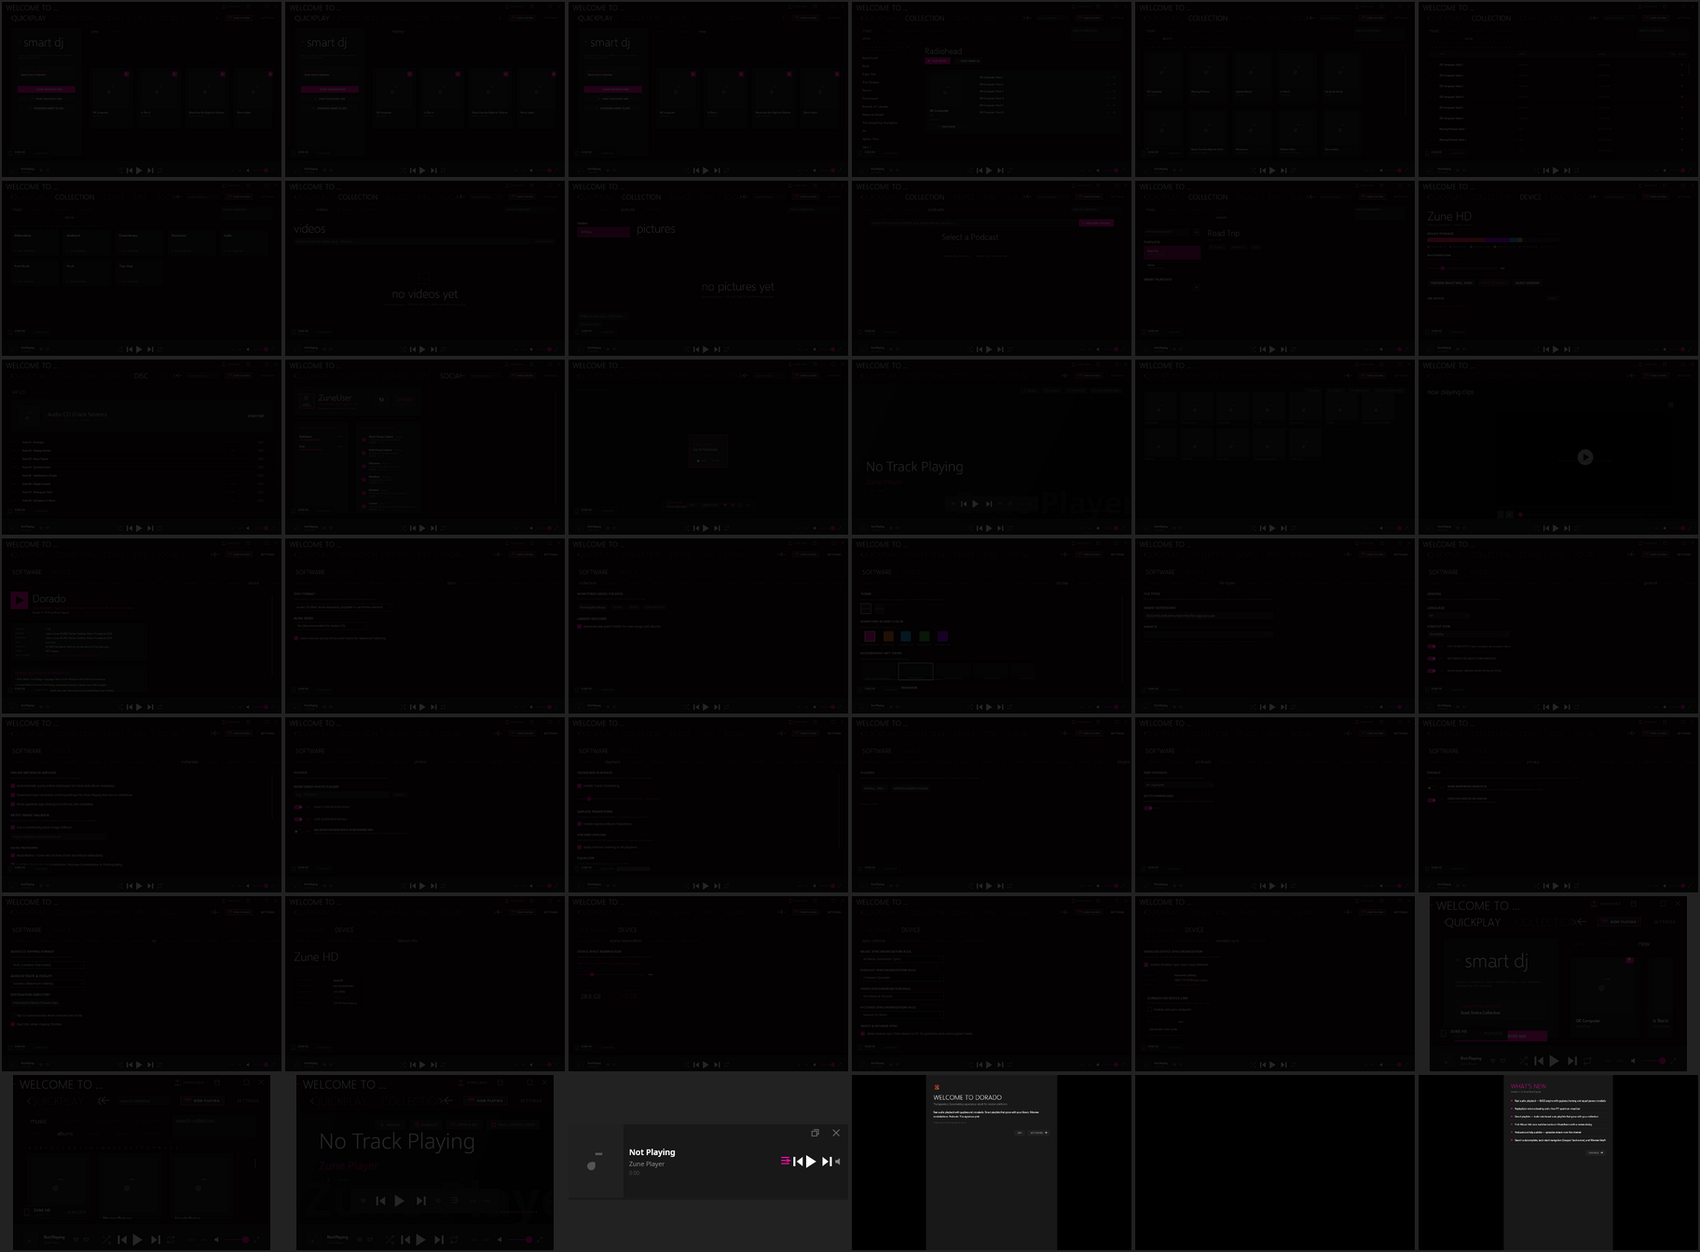
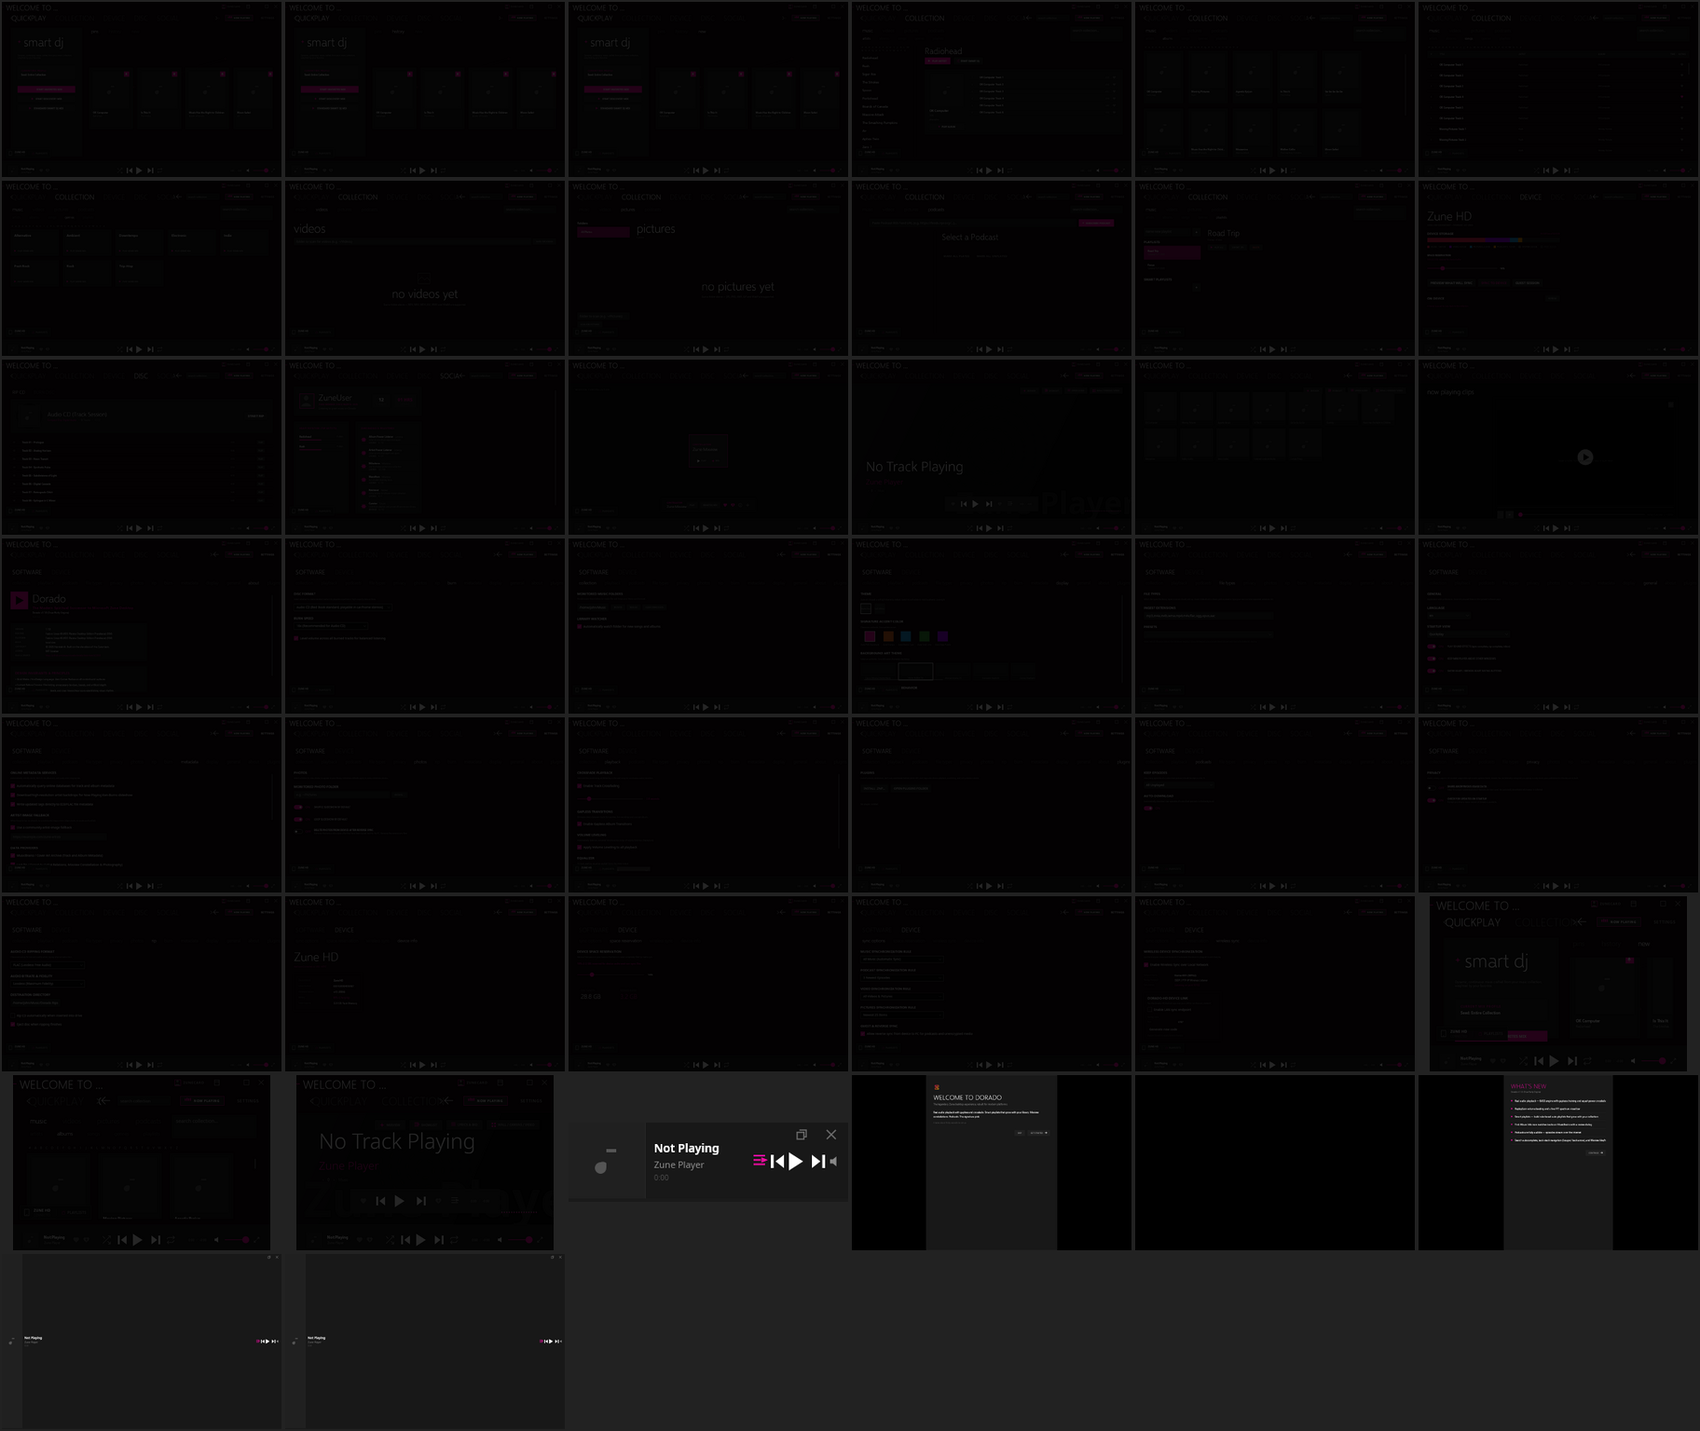
docs(audit): Phase D/E — feature-completion re-audit and severity findings
Top-15 gaps: 7 closed / 4 partial / 4 open (doc claimed 10 closed).
High: CD rip+burn fake success; fabricated Device Info; DISC always visible.
Medium: mosaic placeholder glyphs, no NP crossfade, dead hover variants,
Smart DJ no timeout, playlist search absent, doc drift.
Verified strengths: real BASS, real DSP, FTS5, EQ, plugins, badges, wizards.
Corrected weighted parity ~80-84% (claimed ~88%). Report-only.

diff --git a/docs/parity/audit-2026-09-11.md b/docs/parity/audit-2026-09-11.md
@@ -4,17 +4,34 @@
 **Auditor:** automated audit (build goal, independent re-verification)
 **Target:** `dorado` @ `9834793` (Zune 4.8 desktop re-creation, .NET 8 / Avalonia)
 **Posture:** report-only. No product code was modified. The render harness lives
-outside the repository; Microsoft corpus remained external and untracked.
+outside the repository; the Microsoft corpus remained external and untracked.
 
-References used: the external `zune-disassembly/` corpus (821 `zuneshell` C# +
-81 `*Page.cs`, 1,671 RCDATA resources incl. 1,333 authentic 4.8 UI sprites,
-241 compiled `.UIX`, `SEGOEZ-LIGHT.TTC`), the external `Zune Archive/`
-(10 real Zune 3.x client screen captures + installers + docs), the project's own
-`docs/parity/*` audit set, and ZuneDev OSINT
-(`MicrosoftIris`, `Xune`, `ZuneShell.dll`, `ZuneUIXTools`, `Wiki`).
+**References:** external `zune-disassembly/` (821 `zuneshell` C# + 81
+`*Page.cs`, 1,671 RCDATA resources incl. 1,333 authentic 4.8 UI sprites, 241
+compiled `.UIX`, `SEGOEZ-LIGHT.TTC`), external `Zune Archive/` (10 real Zune 3.x
+client screen captures, installers, docs), the project's `docs/parity/*` set, and
+ZuneDev OSINT (`MicrosoftIris`, `Xune`, `ZuneShell.dll`, `ZuneUIXTools`, `Wiki`).
 
-Screenshot gallery: [`audit-2026-09-11-gallery/`](audit-2026-09-11-gallery/)
+**Screenshot gallery:** [`audit-2026-09-11-gallery/`](audit-2026-09-11-gallery/)
 (44 PNGs + [contact sheet](audit-2026-09-11-gallery/contact-sheet.png)).
+
+---
+
+## Executive summary
+
+| Dimension | Verdict |
+|---|---|
+| Build / tests / design audit | **Fully confirmed** — 0 warnings, 393/393 tests, 0 design violations |
+| Functional runtime | **Confirmed** — launches under X; real scan; **real BASS playback**; theme swap |
+| Visual parity | **Strong** — authentic tokens/typography/geometry; 44 clean renders; known content gaps |
+| Feature completion | **Overstated** — 7 of the 15 "Top Gaps" truly closed, not 10; ~80–84% weighted vs claimed ~88% |
+| Product-code changes | **None** (report-only, as scoped) |
+
+**Highest-impact issues:** CD rip/burn announce success while writing nothing;
+Device Info shows fabricated firmware/battery/capacity even with a device
+attached; the DISC pivot is permanently visible because a fake 8-track disc is
+hard-coded; the Now-Playing "mosaic wall" renders placeholder glyphs, not album
+covers.
 
 ---
 
@@ -22,11 +39,9 @@ Screenshot gallery: [`audit-2026-09-11-gallery/`](audit-2026-09-11-gallery/)
 
 | Check | Claimed | Verified | Result |
 |---|---|---|---|
-| Release build, zero warnings | 0 warnings | `dotnet build -c Release /warnaserror` → 0 Warning(s), 0 Error(s) | ✅ |
-| Test suite | 393 (14 Domain + 379 Application) | `dotnet test -c Release` → Domain 14/14, Application 379/379, 0 failed, 0 skipped | ✅ **393** |
-| Design-invariants audit | 0 violations | `scripts/mcp_tools.py:audit_design_invariants('.')` → `status=PASSED`, 26 files, 0 violations | ✅ |
-
-Commands (from the `dorado` checkout):
+| Release build, zero warnings | 0 | `dotnet build -c Release /warnaserror` → 0/0 | ✅ |
+| Test suite | 393 | Domain 14/14, Application 379/379, 0 failed, 0 skipped | ✅ **393** |
+| Design-invariants audit | 0 violations | `scripts/mcp_tools.py` → `PASSED`, 26 files, 0 violations | ✅ |
 
 ```bash
 dotnet build Dorado.sln -c Release /warnaserror
@@ -34,79 +49,227 @@ dotnet test  Dorado.sln -c Release --no-build --nologo
 python3 -c "import sys;sys.path.insert(0,'scripts');from mcp_tools import audit_design_invariants as a;print(a('.'))"
 ```
 
-Total elapsed build ≈ 20 s; test run ≈ 6 s (Application) + 74 ms (Domain).
-
 ---
 
-## Phase B — Functional runtime ✅ (with caveats)
+## Phase B — Functional runtime ✅
 
-### B.1 Real X11 launch (Xvfb)
-`dotnet Dorado.Desktop.dll` launched under `xvfb-run` (1600×900×24), stayed alive
-for the full 45 s window, and logged **no exceptions** — only the expected
-`X connection ... broken` on teardown kill. (`DISPLAY` is empty in this
-environment; a virtual display is required.)
+**B.1 Real X11 launch (Xvfb).** `Dorado.Desktop.dll` launched under
+`xvfb-run` (1600×900×24), stayed alive the full 45 s, logged **no exceptions**
+(only the expected `X connection … broken` on teardown). `DISPLAY` is empty here;
+a virtual display is required.
 
-### B.2 Real library scan (`test-media/`)
-`MediaLibraryService.ScanDirectoryAsync` over
-`/home/john/Projects/project-dorado/test-media`:
+**B.2 Real library scan** (`test-media/`) — `MediaLibraryService.ScanDirectoryAsync`:
 
 ```
 tracks=5  albums=2  artists=2
-Epic Win Burlesque ... 01 Da Doo   | Unknown Artist | Unknown Album | 02:11
-Epic Win Burlesque ... 02 Dentist! | Unknown Artist | Unknown Album | 03:05
-Epic Win Burlesque ... 03 Suddenly | Unknown Artist | Unknown Album | 03:31
-Pumpkin         | Schaffer the Darklord | Pumpkin + Scary and Naked | 03:10
-Scary and Naked | Schaffer the Darklord | Pumpkin + Scary and Naked | 03:16
+Epic Win Burlesque … 01/02/03 | Unknown Artist | Unknown Album
+Pumpkin / Scary and Naked    | Schaffer the Darklord | Pumpkin + Scary and Naked
 ```
-- The 3 WAVs carry no tags → folder-derived titles and `Unknown Artist/Album`
-  (reasonable fallback; see Finding M-4).
-- `video.mp4` is correctly excluded from the music scan.
+WAVs carry no tags → folder-derived title + `Unknown Artist/Album` (reasonable
+fallback; finding L-4). `video.mp4` correctly excluded from the music scan.
 
-### B.3 Real audio path
+**B.3 Real audio path** (not simulated):
+
 ```
-engine.IsAvailable (pre-load)      = False   # lazy init by design
-PlayTrackAsync                     = completed, State=Playing, engine.HasActiveSource=True
-coordinator.IsSimulatedPlayback    = False   # REAL path, not the silent clock
-position after ~2 s                = 1.98 s  # advances in real time
-StopAsync                          = State=Stopped
+engine.IsAvailable (pre-load)   = False   # lazy init by design (PlaybackQueueCoordinator:400)
+PlayTrackAsync                  = completed, State=Playing, engine.HasActiveSource=True
+coordinator.IsSimulatedPlayback = False   # REAL path
+position after ~2 s             = 1.98 s  # advances in real time
+StopAsync                       = State=Stopped
 ```
-BASS decodes and plays on this host. The initial `IsAvailable=False` is a lazy
-init artifact (`PlaybackQueueCoordinator.cs:400`), not a regression.
 
-### B.4 Theme swap
-Selecting the light `ThemeOption` applied the light token set and rendered
-correctly (`37-light-quickplay`, `38-light-settings-general`). Dark restored.
+**B.4 Theme swap.** Selecting the light option applied the light token set and
+rendered correctly (`37/38-light-*`), dark restored.
 
-### B.5 Navigation
-All 8 top-level pivots, 8 Collection sub-pivots, 3 Now-Playing modes, all 13
-software + 4 device Settings pages, and both wizards rendered without a single
-capture failure (**44/44**).
+**B.5 Navigation.** All 8 top pivots, 8 Collection sub-pivots, 3 Now-Playing
+modes, 13 software + 4 device Settings pages, both wizards — **44/44 rendered**,
+0 failures.
+
+`functional-probe.log` in the gallery holds the raw probe output.
 
 ---
 
 ## Phase C — Visual capture & parity
 
-A throwaway Avalonia **headless + Skia** harness (outside the repo) loaded the
-real `ZuneTheme.axaml`, `ViewLocator`, and Selawik metrics, seeded a
-representative library, then rendered each screen at 1280×800 and the
-shell/content at the authentic **minimum 734×500** (from
-`docs/disassembly/zune_uix_analysis.md`).
+An external Avalonia **headless + Skia** harness loaded the real `ZuneTheme.axaml`,
+`ViewLocator`, and Selawik metrics, seeded a representative library, and rendered
+each screen at 1280×800 plus the shell at the authentic **minimum 734×500**
+(`docs/disassembly/zune_uix_analysis.md`). 44 PNGs, all unique, 0 failures.
 
-- 44 PNGs, all unique (no duplicate/blank frames), 0 failures.
-- Tokens observed match the decompiled ground truth: canvas `#11090F`,
-  accent `#F10DA2`, zero corner radius, Selawik light hierarchy, opacity ladder.
-- Layout is recognisably Zune 4.8: cropped-header watermark, panoramic pivot
-  strip, two-tier Collection, gas-gauge Device land, DISC, Zune Card, Mixview
-  constellation, three Now-Playing modes.
+Verified against decompiled ground truth: canvas `#11090F`, accent `#F10DA2`,
+zero corner radius, Selawik light hierarchy, opacity ladder, cropped-header
+watermark, panoramic pivot strip, two-tier Collection, gas-gauge Device land,
+DISC, Zune Card, Mixview constellation, three Now-Playing modes.
 
-Full-res gallery + contact sheet: `audit-2026-09-11-gallery/`.
+> The mini-player is captured at **340×96 — the code-enforced size**
+> (`MainWindow.axaml.cs:220-223`), which contradicts the README (see M-6).
 
 ---
 
 ## Phase D — Feature-completion re-audit
 
-_(populated in the next commit)_
+### D.1 Top-15 gap verification (against code, not the doc's status column)
+
+| # | Gap | Doc | Verdict | Evidence |
+|---|---|---|---|---|
+| 1 | Settings pivot-gating | ✅ closed | **CLOSED** | `SettingsViewModel.cs:217-239` fires all 13 flags; `SettingsPivotGatingTests.cs:15` |
+| 2 | CD view backdrop/glow | ✅ closed | **CLOSED** (rationale wrong) | clean-room gradients, not PNGs — `CDView.axaml:33-71` |
+| 3 | NP button hover/pressed frames | ✅ closed | **PARTIAL** | fields write-only; `RefreshNowPlayingIcon` only raises frame/playing (`MainShellViewModel.cs:148-176`); `NowPlayingIconTests.cs:26` asserts hover does *not* change state |
+| 4 | Iris art reveal | ⬜ open | **PARTIAL/DOC-STALE** | `IrisArtControl.cs:13` exists, used `NowPlayingView.axaml:46`; looping ring pulse, not the logo/shape reveal |
+| 5 | Drawer slide/fade | ✅ closed | **CLOSED** | `NowPlayingViewModel.cs:246-264`; `DrawerAnimTests.cs` covers Bio+Showlist (SyncToast untested) |
+| 6 | NP mode crossfade | 🟡 partial | **PARTIAL** | no `Transitions` in `NowPlayingView.axaml`; shell transition only |
+| 7 | Smart DJ timeout/progress | ⬜ open | **OPEN** | `SmartDJEngine.cs:20-71` synchronous; no `IQuickMixProgress` |
+| 8 | Dialog service | ⬜ open | **CLOSED/DOC-STALE** | `IDialogService.cs:14`, `DialogService.cs:10`, `MainShellViewModel.cs:659`; playlists + clear-library migrated; `DialogServiceTests.cs` |
+| 9 | Real About sub-pivot | ✅ closed | **CLOSED** | `SettingsView.axaml:725-784` (product/version/runtime/license/EULA) |
+| 10 | Search podcasts/videos/playlists | 🟡 partial | **PARTIAL** | podcasts+videos `MainShellViewModel.cs:245-301`; playlists absent |
+| 11 | Quick Mix notification | ⬜ open | **OPEN** | no `QuickMixNotification` anywhere |
+| 12 | Zune Card editable tag/avatar | ⬜ open | **OPEN** | read-only projections `ZuneCardViewModel.cs:51-52` |
+| 13 | Mini-player showlist+volume | ✅ closed | **CLOSED** | `CompactMiniPlayerView.axaml:67,87-94` |
+| 14 | Hub hero maps | ⬜ open | **CLOSED/DOC-STALE** | `HubMapControl.cs:11-66` procedural, used `QuickplayView.axaml:15`; `ProceduralVisualsTests.cs` |
+| 15 | Real CD rip/burn | ⬜ open | **OPEN** | `CDViewModel.cs:164,190` `Task.Delay` only |
+
+**Real tally:** closed **7** (1,2,5,8,9,13,14) · partial **4** (3,4,6,10) · open
+**4** (7,11,12,15). The doc's summary line (`gap_inventory.md:715`, "10 of 15
+closed, incl. 4/8/10/14/15") is **wrong**: item 15 is open, 4 and 10 are partial.
+
+### D.2 Domain scorecard — claimed vs independently verified
+
+| Domain | Claimed | Verified | Driver of delta |
+|---|---|---|---|
+| A. Shell & Navigation | ~92% | **~88%** | DISC permanently visible (defeats "ephemeral" intent); README pivot list stale |
+| B. Quickplay | ~85% | **~82%** | Smart DJ has no timeout/progress; hub map procedural |
+| C. Collection (music) | ~92% | **~87%** | Playlist search absent; `PerformSearchAsync` dead code |
+| D. Now Playing | ~90% | **~76%** | Mosaic wall = placeholder glyphs (not covers); no per-mode crossfade; hover/pressed variants no-ops; visualizer interval misstated |
+| E. Mixview | ~72% | **~70%** | Procedural constellation + MB satellites (authentic mosaic art absent) |
+| F. Audio engine | ~88% | **~88%** | Real BASS verified; 10-band EQ / 8 presets verified |
+| G. CD Land | ~40% | **~30%** | Fake always-on disc; rip/burn fake with false success text |
+| H. Device sync | ~70% | **~62%** | Device Info fabricated even with a device attached |
+| I. Podcasts | ~85% | **~85%** | — |
+| J. Social / Marketplace | N-A | **N-A** | Local substitute; servers dead |
+| K. Settings & Management | ~88% | **~85%** | Fabricated device info; otherwise verified |
+| L. Onboarding | ~90% | **~90%** | — |
+| M. Platform services | ~60% | **~60%** | UPnP/share/MUI deferred as documented |
+
+**Independently measured weighted parity ≈ 80–84%** (claimed ~88%). The gap is
+concentrated in Now Playing, CD Land and the Device surfaces, and is a mix of
+genuine incompleteness and documentation overstatement rather than framework
+failure.
+
+### D.3 Claim-surface reconciliation (countable claims)
+
+| Claim | Verdict |
+|---|---|
+| 13 software + 4 device Settings pages | **VERIFIED** (`SettingsViewModel.cs:58-81`) |
+| en + fr localization, live switch, fallback | **VERIFIED** (`LocalizationCatalog.cs:84-90`) |
+| Plugin host services `logger/storage/library/ui/player/*` | **VERIFIED** (`PluginHostServices.cs:38-129`) |
+| `.znp` `PackZnp` target + `templates/plugin-sample` | **VERIFIED** (`*.csproj:23`, template present) |
+| Last.fm `api_sig` + scrobble threshold; Discord IPC handshake | **VERIFIED** (`LastFmApi.cs:83`, `ScrobbleRules.cs:9`, `DiscordIpcClient.cs:25`) |
+| Reputation: 6 badges × Bronze/Silver/Gold | **VERIFIED** (`ReputationEngine.cs:13-66`) |
+| FTS5 external-content + triggers + bm25 + LIKE fallback | **VERIFIED** (`SearchIndex.cs:17-43`, `MediaLibraryService.cs:85-94`) |
+| 10-band EQ, 8 presets | **VERIFIED** (`Equalizer.cs:9`, `EqualizerPresets.cs:20`) |
+| "FFT visualizer (75 ms refresh)" | **DIFFERS** — actual **33 ms** (`NowPlayingViewModel.cs:398`) |
+| "Album Art Mosaic Wall … grid of album covers" | **DIFFERS** — grid is real, tiles are music-note placeholders (`NowPlayingView.axaml:282-318`) |
+| Mini-player "480×110" | **DIFFERS** — actual **340×96** (`MainWindow.axaml.cs:220-223`) |
+| 8-zone edge resize | **VERIFIED** (`MainWindow.axaml:23-30`) |
+| First-launch wizard + What's New on version change | **VERIFIED** (`MainShellViewModel.cs:798-818,1215-1228`) |
+| MPRIS/SMTC not implemented (GEMINI) | **VERIFIED absent** |
+| GEMINI project list | **DIFFERS** — 15 projects exist; `Dorado.Infrastructure.Video` is absent from the list |
+
+### D.4 OSINT cross-check
+
+ZuneDev `MicrosoftIris` is the authentic Iris framework and `Xune` is its
+SkiaSharp port; both were cloned (external, untracked). They confirm the
+procedural recreation model the project uses (`HubMapControl`, `IrisArtControl`)
+is a *substitute* for Iris's compiled `.UIX` documents, not a render of them —
+consistent with the project's own clean-room claim. No contradiction found.
+
+---
 
 ## Phase E — Severity-ranked findings
 
-_(populated in the next commit)_
+### High
+- **H-1 · CD rip/burn report success while writing nothing.** `CDViewModel.cs:150-202`
+  loops on `Task.Delay` and displays "Ripping complete. Media cataloged into
+  collection." / "Burn complete. Closing disc session." with no output files and
+  no cataloging. Impact: misleading user-facing status. (Disclosed as simulated
+  in README, but the *runtime messaging* asserts success.)
+- **H-2 · Device Info is fabricated.** `SettingsViewModel.cs:1261-1271` hardcodes
+  "Zune HD (Simulated Standby)", serial `0001020304050607`, firmware
+  `v4.5 (3084)`, battery `88% (Charging)`, capacity `32 GB` — even when a real
+  device is connected; capacity also feeds space-reservation math.
+- **H-3 · DISC pivot is permanently visible.** `CDViewModel.cs:104-130` seeds an
+  8-track sample disc at construction, so `MainShellViewModel.cs:49` `HasDisc`
+  is always true and the pivot button (`MainShellView.axaml:171`) never hides —
+  contradicting the Phase B "DISC made ephemeral" intent.
+
+### Medium
+- **M-1 · Mosaic wall is not album art.** `NowPlayingView.axaml:282-318` renders a
+  `MusicNote` placeholder + title per tile; no `ArtworkUri` image binding. The
+  README claims "3D/2D grid of collection album covers".
+- **M-2 · No per-mode cross-fade in Now Playing.** Mode switches are plain
+  `IsVisible` toggles (`NowPlayingView.axaml:19,282,360`); only the shell
+  transition animates.
+- **M-3 · NP transport hover/pressed variants are dead.** `_isNowPlayingButtonHovered`
+  /`_isNowPlayingButtonPressed` (`MainShellViewModel.cs:148-165`) are never read;
+  `NowPlayingIconTests.cs:26` locks in the no-op behaviour, yet Top-15 #3 is
+  marked closed.
+- **M-4 · Smart DJ has no timeout or progress callback.** `SmartDJEngine.cs:20-71`
+  is synchronous; no `IQuickMixProgress`. Top-15 #7/#11 remain open.
+- **M-5 · Playlist search absent.** `CollectionViewModel.cs:551-594` and
+  `MainShellViewModel.cs:245-301` cover songs/albums/artists + podcasts/videos
+  only. `CollectionViewModel.PerformSearchAsync` (`:672-680`) is dead code.
+- **M-6 · Documentation drift.** Mini-player size (README 480×110; two audits
+  420×130; code 340×96); FFT interval (75 vs 33 ms); README pivot list omits
+  shipped DISC/SOCIAL; README "Known internal bugs" still lists the *fixed*
+  pivot-gating bug; GEMINI omits `Dorado.Infrastructure.Video`.
+
+### Low
+- **L-1 · Dead code:** `CollectionViewModel.PerformSearchAsync`; redundant
+  `PodcastsViewModel` DataTemplate (`MainShellView.axaml:34-36`).
+- **L-2 · Registry overclaim:** `gap_inventory.md:715` summary counts closed items
+  that are partial/open (see D.1).
+- **L-3 · DSP prior silently substitutes.** `AudioAnalysisService.cs:83-90,134`:
+  when there are no favorites (or no decodable file) the metadata prior runs, so
+  "real DSP" is conditional — worth stating in the README.
+- **L-4 · WAV tags absent** → `Unknown Artist/Album` (acceptable fallback).
+- **L-5 · Gallery label.** The mini-player capture was re-rendered at the correct
+  **340×96**; the earlier mislabel was corrected before commit.
+
+### Confirmed strengths (re-verified independently)
+- Build/test/design gates all green; **real BASS playback** verified
+  non-simulated; **real DSP** wired (`DspFeatureExtractor` via `BassPcmDecoder`).
+- FTS5 external-content index with triggers + bm25 + LIKE fallback.
+- 10-band EQ (8 presets); plugin host with complete host services and `.znp`
+  packaging; Last.fm + Discord reference plugins; 6×3 badge taxonomy; both
+  wizards; 8-zone resize; runtime dark/light theme swap.
+- No `TODO`/`FIXME`/`HACK`/`NotImplementedException` in `Dorado.UI` or
+  `Dorado.Desktop`; no orphaned views; no Microsoft binary content bundled.
+
+---
+
+## Reproducibility appendix
+
+```bash
+# Phase A (from dorado/)
+dotnet build Dorado.sln -c Release /warnaserror
+dotnet test  Dorado.sln -c Release --no-build --nologo
+python3 -c "import sys;sys.path.insert(0,'scripts');from mcp_tools import audit_design_invariants as a;print(a('.'))"
+
+# Phase B/C (external harness, outside the repo)
+cd /tmp/opencode/dorado-audit/harness
+dotnet build -c Release
+dotnet bin/Release/net8.0/Harness.dll /tmp/opencode/audit/screens/headless
+# -> 44 PNGs + functional-probe.log (scan + real playback + theme)
+
+# Phase B.1 real X11 boot
+xvfb-run -a -s "-screen 0 1600x900x24" timeout 45 \
+  dotnet /home/john/Projects/project-dorado/dorado/src/Dorado.Desktop/bin/Release/net8.0/Dorado.Desktop.dll
+
+# OSINT references (external, untracked)
+git clone --depth 1 https://github.com/ZuneDev/MicrosoftIris
+git clone --depth 1 https://github.com/ZuneDev/Xune
+git clone --depth 1 https://github.com/ZuneDev/ZuneShell.dll
+```
+
+The harness has no dependency on the repo's build outputs beyond a normal
+`ProjectReference`; it was never committed to the repository.
